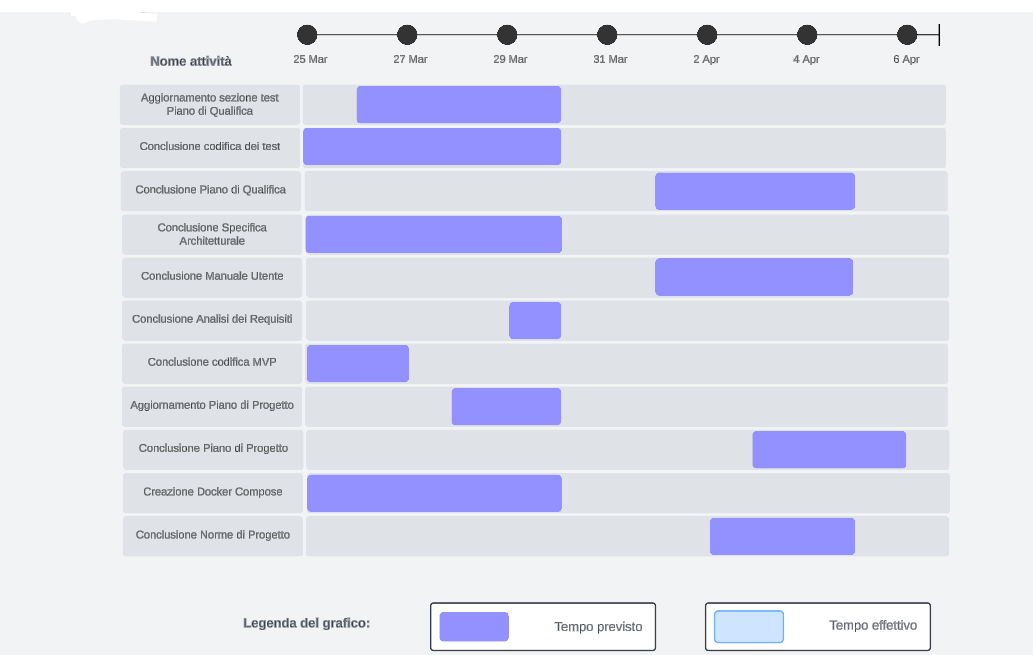
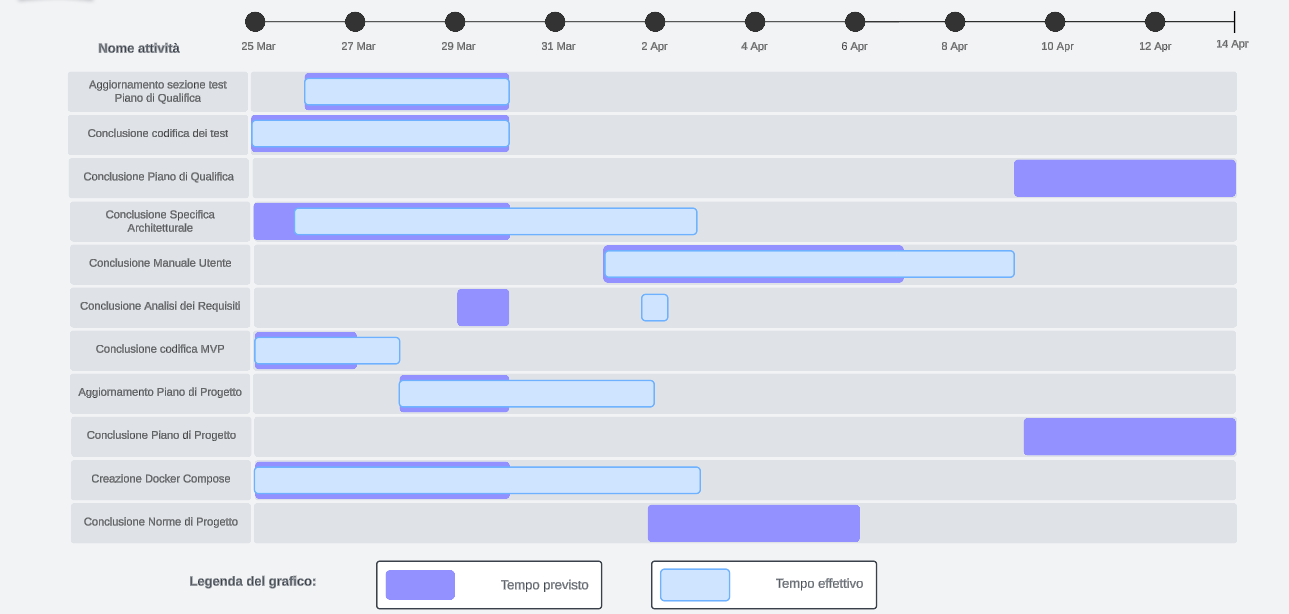
Add ripianificazione sprint 11

diff --git a/3-PB/Documentazione_esterna/Piano_di_progetto/pianificazione.tex b/3-PB/Documentazione_esterna/Piano_di_progetto/pianificazione.tex
@@ -12,7 +12,7 @@ Per adottare questo modello di sviluppo, è stato deciso di utilizzare degli spr
 
 \subsection{Primo sprint: 2023/11/06 - 2023/11/19}
 \subsubsection{Obiettivi}
-\begin{itemize} 
+\begin{itemize}[itemsep=-2pt]
     \item Inizio stesura delle Norme di Progetto;
     \item Stesura template dei documenti per il progetto;
     \item Inizio stesura del Piano di Progetto;
@@ -31,7 +31,7 @@ Per adottare questo modello di sviluppo, è stato deciso di utilizzare degli spr
 
 \subsection{Secondo sprint: 2023/11/20 - 2023/12/03}
 \subsubsection{Obiettivi}
-\begin{itemize}
+\begin{itemize}[itemsep=-2pt]
     \item Proseguire la stesura del Piano di Progetto;
     \item Perfezionare il documento di Analisi dei requisiti;
     \item Ampliamento delle Norme di Progetto;
@@ -52,7 +52,7 @@ Per adottare questo modello di sviluppo, è stato deciso di utilizzare degli spr
 
 \subsection{Terzo sprint: 2023/12/04 - 2023/12/17}
 \subsubsection{Obiettivi}
-\begin{itemize}
+\begin{itemize}[itemsep=-2pt]
     \item Aggiornamento del Piano di Progetto;
     \item Conclusione stesura delle Norme di Progetto;
     \item Conclusione stesura del Piano di Qualifica;
@@ -72,7 +72,7 @@ Per adottare questo modello di sviluppo, è stato deciso di utilizzare degli spr
 
 \subsection{Quarto sprint: 2023/12/18 - 2023/12/31}
 \subsubsection{Obiettivi}
-\begin{itemize}
+\begin{itemize}[itemsep=-2pt]
     \item Inserimento di nuovi termini nel Glossario;
     \item Concludere il documento di Analisi dei requisiti;
     \item Conclusione delle Norme di Progetto;
@@ -91,7 +91,7 @@ Per adottare questo modello di sviluppo, è stato deciso di utilizzare degli spr
 
 \subsection{Quinto sprint: 2024/01/01 - 2024/01/14}
 \subsubsection{Obiettivi}
-\begin{itemize}
+\begin{itemize}[itemsep=-2pt]
     \item Conclusione del Glossario;
     \item Conclusione delle Norme di Progetto;
     \item Aggiornamento del Piano di Qualifica;
@@ -110,7 +110,7 @@ Per adottare questo modello di sviluppo, è stato deciso di utilizzare degli spr
 
 \subsection{Sesto sprint: 2024/01/15 - 2024/01/28}
 \subsubsection{Obiettivi}
-\begin{itemize}
+\begin{itemize}[itemsep=-2pt]
     \item Aggiornamento e conclusione dell'Analisi dei requisiti;
     \item Aggiornamento del Piano di Progetto;
     \item Conclusione delle Norme di Progetto;
@@ -131,7 +131,7 @@ Per adottare questo modello di sviluppo, è stato deciso di utilizzare degli spr
 
 \subsection{Settimo sprint: 2024/01/29 - 2024/02/11}
 \subsubsection{Obiettivi}
-\begin{itemize}
+\begin{itemize}[itemsep=-2pt]
     \item Correzioni all'Analisi dei Requisiti;
     \item Conclusione Piano di Qualifica;
     \item Conclusione Glossario;
@@ -155,7 +155,7 @@ Dopo l'analisi dei costi intrapresi durante la RTB e dei relativi tempi di compl
 
 \subsection{Ottavo sprint: 2024/02/12 - 2024/02/25}
 \subsubsection{Obiettivi}
-\begin{itemize}
+\begin{itemize}[itemsep=-2pt]
     \item Correzioni all'Analisi dei Requisiti post RTB;
     \item Correzioni e aggiornamento Piano di Qualifica;
     \item Correzioni e aggiornamento Norme di Progetto;
@@ -176,7 +176,7 @@ Dopo l'analisi dei costi intrapresi durante la RTB e dei relativi tempi di compl
 
 \subsection{Nono sprint: 2024/02/26 - 2024/03/10}
 \subsubsection{Obiettivi}
-\begin{itemize}
+\begin{itemize}[itemsep=-2pt]
     \item Aggiornamento Piano di Qualifica;
     \item Aggiornamento Specifica Architetturale;
     \item Aggiornamento Piano di Progetto;
@@ -194,9 +194,11 @@ Dopo l'analisi dei costi intrapresi durante la RTB e dei relativi tempi di compl
     \label{fig:roadmaps9s} 
 \end{figure}
 
+\newpage
+
 \subsection{Decimo sprint: 2024/03/11 - 2024/03/24}
 \subsubsection{Obiettivi}
-\begin{itemize}
+\begin{itemize}[itemsep=-2pt]
     \item Aggiornamento Piano di Qualifica;
     \item Aggiornamento Specifica Architetturale;
     \item Aggiornamento Piano di Progetto;
@@ -214,19 +216,21 @@ Dopo l'analisi dei costi intrapresi durante la RTB e dei relativi tempi di compl
 \end{figure}
 \newpage
 
-\subsection{Undicesimo sprint: 2024/03/25 - 2024/04/07}
+\subsection{Undicesimo sprint: 2024/03/25 - 2024/04/14}
 \subsubsection{Obiettivi}
-\begin{itemize}
+\begin{itemize}[itemsep=-2pt]
     \item Aggiornamento sezione test Piano di Qualifica e conclusione;
     \item Conclusione Specifica Architetturale;
     \item Conclusione Manuale Utente;
     \item Conclusione Analisi dei Requisiti;
-    \item Conclusione codifica MVP;
+    \item Conclusione codifica MVP e configurazione Docker Compose;
     \item Aggiornamento Piano di Progetto e conclusione;
-    \item Creazione Docker Compose;
     \item Conclusione Norme di Progetto;
     \item Conclusione codifica dei test.
 \end{itemize}
+
+\subsubsection{Ripianificazione}
+A causa della mancanza di reali attività pianificabili, considerato lo stato terminale dei lavori e l'attesa necessaria a sostenere i colloqui conclusivi, viene prolungato lo sprint senza crearne uno nuovo. In particolare, la sua data di fine è mutata dal 2024/04/07 al 2024/04/14, andando a modificare la pianificazione temporale degli obiettivi riguardanti la conclusione del Piano di progetto e del Piano di qualifica, che potranno avvenire solo successivamente al primo colloquio di revisione.
 
 \begin{figure}[h!]
     \centering
